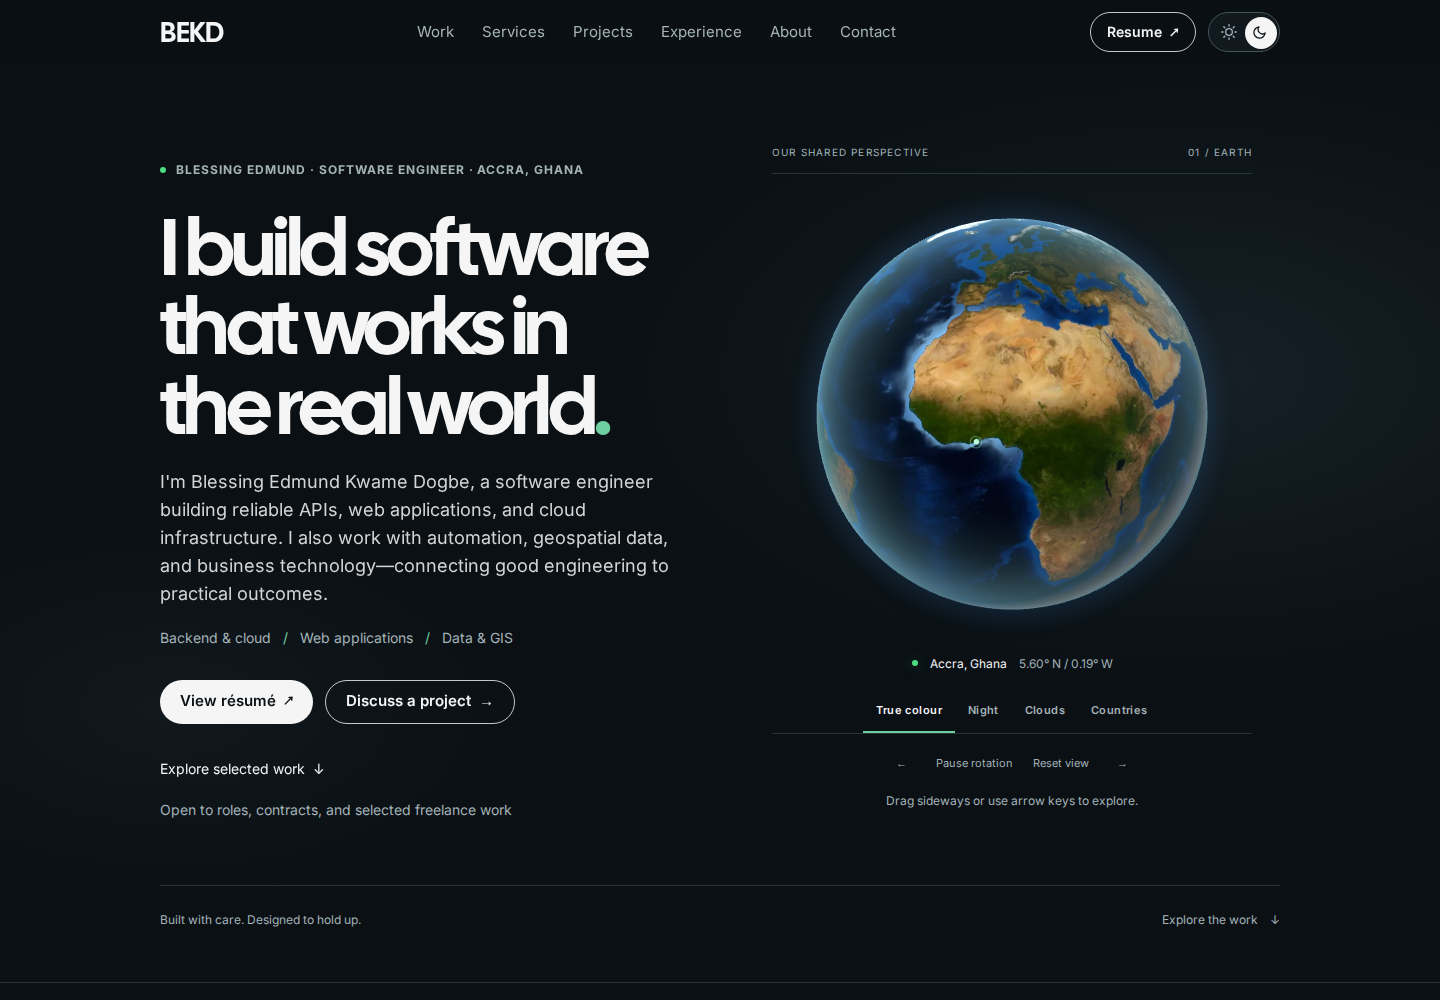
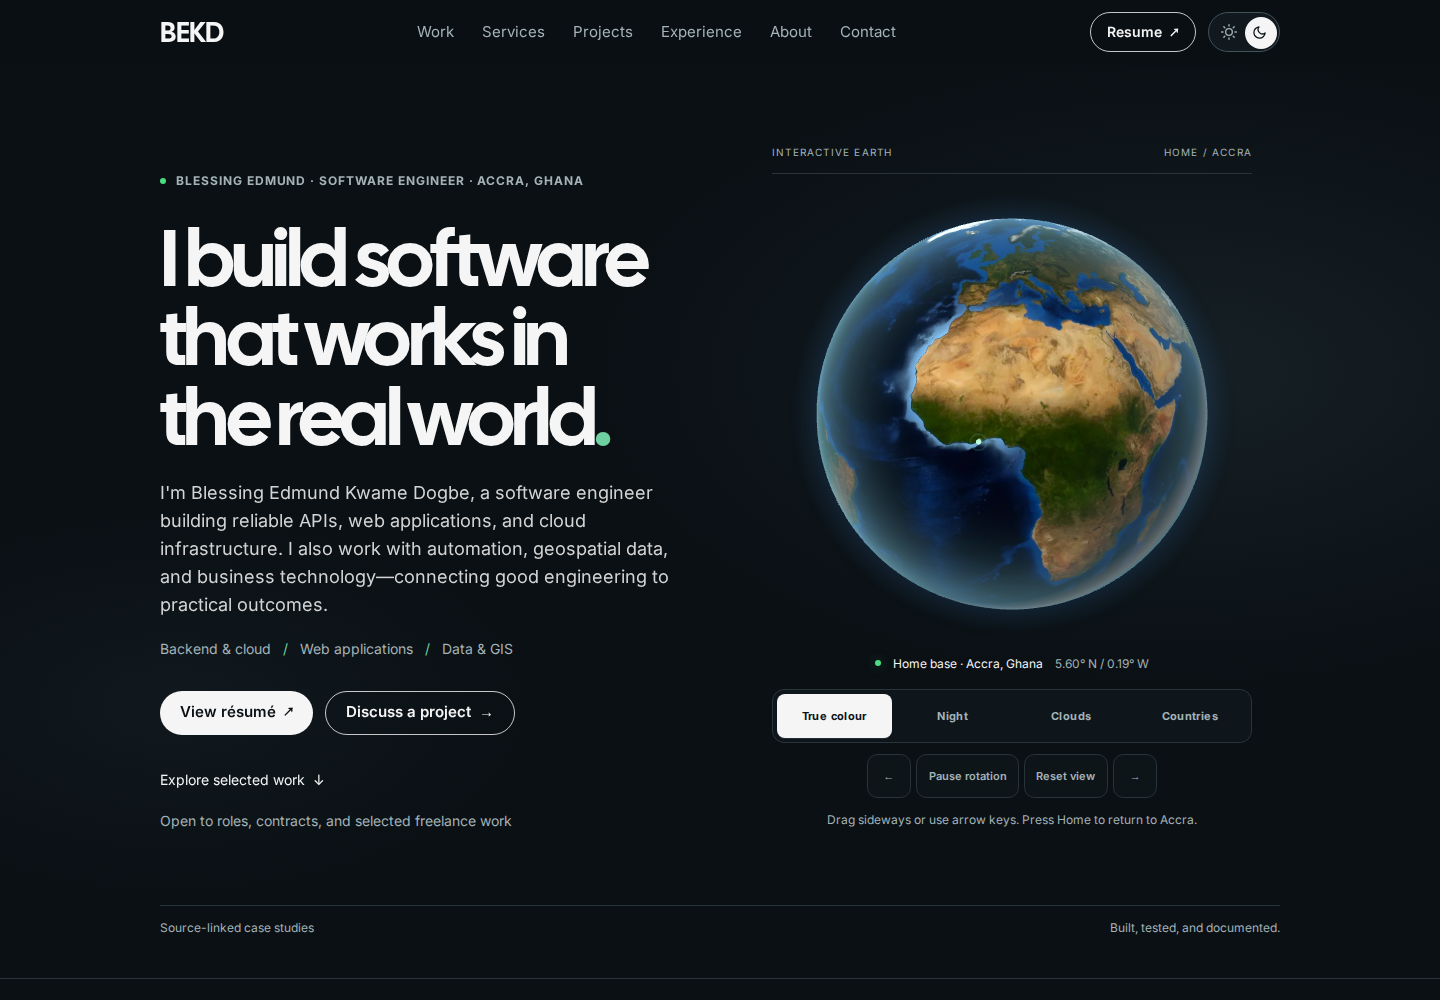
refine: polish portfolio UI and globe controls

diff --git a/src/index.css b/src/index.css
@@ -207,14 +207,17 @@
 
   /* Monochrome until hovered, then a slight tilt into colour */
   .grayscale-hover {
-    filter: grayscale(100%);
     transition: filter 500ms ease, transform 500ms ease;
   }
 
-  .grayscale-hover:hover,
-  .group:hover .grayscale-hover {
-    filter: grayscale(0%);
-    transform: rotate(3deg) scale(1.03);
+  @media (hover: hover) {
+    .grayscale-hover { filter: grayscale(100%); }
+
+    .grayscale-hover:hover,
+    .group:hover .grayscale-hover {
+      filter: grayscale(0%);
+      transform: rotate(2deg) scale(1.02);
+    }
   }
 
   /* Text sits at 20% and a solid fill sweeps across it left to right */
@@ -304,11 +307,11 @@
   .globe-canvas canvas:active { cursor: grabbing; }
   .globe-location { display: flex; align-items: center; justify-content: center; flex-wrap: wrap; gap: .5rem .75rem; font-size: .75rem; }
   .globe-location-dot { width: 6px; height: 6px; border-radius: 50%; background: rgb(var(--signal)); box-shadow: 0 0 12px rgb(var(--signal) / .35); }
-  .globe-looks { display: flex; justify-content: center; border-bottom: 1px solid rgb(var(--rule)); margin-top: 1rem; }
-  .globe-looks button { min-height: 44px; padding: .5rem .8rem; font-size: .6875rem; letter-spacing: .04em; font-weight: 600; color: rgb(var(--ink-muted)); border-bottom: 2px solid transparent; }
-  .globe-looks button[aria-pressed='true'] { border-color: rgb(var(--accent)); color: rgb(var(--ink)); }
-  .globe-controls { display: flex; justify-content: center; align-items: center; gap: .25rem; margin-top: .4rem; }
-  .globe-controls button { min-height: 44px; min-width: 44px; padding: .5rem; border-radius: .5rem; font-size: .6875rem; color: rgb(var(--ink-muted)); }
+  .globe-looks { display: grid; grid-template-columns: repeat(4, minmax(0, 1fr)); gap: .25rem; margin-top: 1rem; padding: .25rem; border: 1px solid rgb(var(--rule)); border-radius: .75rem; background: rgb(var(--paper-raised) / .72); }
+  .globe-looks button { min-height: 44px; padding: .5rem .65rem; border-radius: .5rem; font-size: .6875rem; letter-spacing: .035em; font-weight: 700; color: rgb(var(--ink-muted)); }
+  .globe-looks button[aria-pressed='true'] { color: rgb(var(--paper)); background: rgb(var(--ink)); box-shadow: 0 1px 0 rgb(var(--rule-strong) / .4); }
+  .globe-controls { display: flex; justify-content: center; align-items: center; flex-wrap: wrap; gap: .35rem; margin-top: .65rem; }
+  .globe-controls button { min-height: 44px; min-width: 44px; padding: .5rem .7rem; border: 1px solid rgb(var(--rule)); border-radius: .65rem; background: rgb(var(--paper-raised) / .55); font-size: .6875rem; font-weight: 600; color: rgb(var(--ink-muted)); }
   .globe-controls button:hover, .globe-looks button:hover { color: rgb(var(--ink)); background: rgb(var(--paper-sunk)); }
   .globe-controls button:disabled, .globe-looks button:disabled { cursor: default; opacity: .65; }
   .globe-status { min-height: 1.25rem; margin-top: .5rem; font-size: .75rem; text-align: center; color: rgb(var(--ink-muted)); }

diff --git a/src/components/RecordEntry.jsx b/src/components/RecordEntry.jsx
@@ -1,15 +1,15 @@
 import { useState } from 'react';
 
 /** One row in the experience record: logo, organisation and role, dates on the right, details below. */
-function RecordEntry({ title, organization, type, duration, location, isCurrent, description, highlights, skills, logo, logoText }) {
+function RecordEntry({ title, organization, type, duration, location, isCurrent, description, highlights, skills, logo, logoText, logoClassName }) {
   const [logoFailed, setLogoFailed] = useState(false);
 
   return (
     <li className="group py-9">
-      <div className="flex flex-wrap items-center gap-x-8 gap-y-4">
-        <div className="grayscale-hover flex h-[60px] w-[60px] shrink-0 items-center justify-center overflow-hidden rounded-xl border border-rule bg-white p-1.5">
+      <div className="flex flex-wrap items-center gap-x-6 gap-y-4">
+        <div className="grayscale-hover flex h-16 w-20 shrink-0 items-center justify-center overflow-hidden rounded-xl border border-rule bg-white p-1 sm:w-24">
           {logo && !logoFailed ? (
-            <img src={logo} alt={`${organization} logo`} width="60" height="60" loading="lazy" decoding="async" className="h-full w-full object-contain" onError={() => setLogoFailed(true)} />
+            <img src={logo} alt={`${organization} logo`} width="96" height="64" loading="lazy" decoding="async" className={`h-full w-full ${logoClassName || 'object-contain'}`} onError={() => setLogoFailed(true)} />
           ) : (
             <span aria-hidden="true" className="font-mono text-[0.6875rem] text-neutral-500">{logoText}</span>
           )}
@@ -39,7 +39,7 @@ function RecordEntry({ title, organization, type, duration, location, isCurrent,
         </div>
       </div>
 
-      <div className="min-w-0 sm:pl-[calc(60px+2rem)]">
+      <div className="min-w-0 sm:pl-[calc(6rem+1.5rem)]">
         {description && (
           <p className="mt-4 max-w-prose text-ink-soft leading-relaxed">{description}</p>
         )}

diff --git a/src/components/HeroGlobe.jsx b/src/components/HeroGlobe.jsx
@@ -43,7 +43,7 @@ const HeroGlobe = memo(function HeroGlobe() {
   return (
     <div className="globe-experience">
       <div className="globe-caption" aria-hidden="true">
-        <span>Our shared perspective</span><span>01 / Earth</span>
+        <span>Interactive Earth</span><span>Home / Accra</span>
       </div>
       <div className="hero-globe-stage relative mx-auto aspect-square w-full">
         {!ready && <GlobeFallback message={unavailable ? 'A quieter view of our world.' : 'Preparing the Earth…'} />}
@@ -51,7 +51,7 @@ const HeroGlobe = memo(function HeroGlobe() {
       </div>
       <div className="globe-location">
         <span className="globe-location-dot" aria-hidden="true" />
-        <span>Accra, Ghana</span><span className="text-ink-muted">5.60° N / 0.19° W</span>
+        <span>Home base · Accra, Ghana</span><span className="text-ink-muted">5.60° N / 0.19° W</span>
       </div>
       {unavailable ? (
         <p className="mt-4 text-center text-sm text-ink-muted" role="status">Interactive Earth is unavailable. You can still explore all my work below.</p>
@@ -72,7 +72,7 @@ const HeroGlobe = memo(function HeroGlobe() {
             <button type="button" disabled={!ready} onClick={() => apiRef.current?.reset()}>Reset view</button>
             <button type="button" disabled={!ready} onClick={() => apiRef.current?.rotate(0.2)} aria-label="Rotate Earth right">→</button>
           </div>
-          <p className="mt-2 text-center text-xs text-ink-muted">Drag sideways or use arrow keys to explore.</p>
+          <p id="globe-instructions" className="mt-3 text-center text-xs leading-relaxed text-ink-muted">Drag sideways or use arrow keys. Press Home to return to Accra.</p>
           {look === 'countries' && (
             <div className="mt-4">
               <label htmlFor="globe-country" className="sr-only">Explore a country</label>

diff --git a/src/components/Experience.jsx b/src/components/Experience.jsx
@@ -6,6 +6,9 @@ import oneHealthLogo from '../assets/images/companies/onehealthtech.png';
 import amalitechLogo from '../assets/images/companies/Amalitech.png';
 import afarinickLogo from '../assets/images/companies/afarinick_company_limited_logo.jpg';
 import graLogo from '../assets/images/companies/GRA.webp';
+import knustLogo from '../assets/images/companies/knust.jpg';
+import hubbleMindLogo from '../assets/images/companies/hubblemind.jpg';
+import leratoLogo from '../assets/images/companies/lerato.jpg';
 
 const EXPERIENCES = [
   {
@@ -53,6 +56,7 @@ const EXPERIENCES = [
     location: 'Kumasi, Ghana',
     description: 'Delivered Tier 1 and Tier 2 technical support, assisted with Active Directory administration, and documented repeatable technical procedures.',
     skills: ['IT Support', 'Active Directory', 'Troubleshooting', 'Documentation'],
+    logo: knustLogo,
     logoText: 'KNUST',
   },
   {
@@ -75,6 +79,8 @@ const EXPERIENCES = [
     duration: 'Nov 2024 – Dec 2024',
     description: 'Prepared health data and trained machine-learning classifiers as part of a data science internship project.',
     skills: ['Data Preparation', 'Machine Learning', 'Python'],
+    logo: hubbleMindLogo,
+    logoClassName: 'object-cover',
     logoText: 'HM',
   },
   {
@@ -85,6 +91,8 @@ const EXPERIENCES = [
     location: 'Greater Accra, Ghana',
     description: 'Installed and configured POS systems for retail and hospitality environments and documented troubleshooting and support procedures.',
     skills: ['POS Configuration', 'IT Support', 'Troubleshooting', 'Business Technology'],
+    logo: leratoLogo,
+    logoClassName: 'object-cover object-top',
     logoText: 'LC',
   },
   {

diff --git a/tests/portfolio.spec.js b/tests/portfolio.spec.js
@@ -96,10 +96,16 @@ test('responsive layouts, saved themes, navigation, filters, and image dialogs',
   await expect(page.getByRole('link', { name: 'Discuss a project' })).toHaveAttribute('href', /mailto:dogbeblessingkwame@gmail\.com\?subject=Project%20enquiry/);
   await expect(page.locator('#services li')).toHaveCount(5);
   await expect(page.locator('#experience')).toContainText('Data Entry, Returns Processing & IT Support Intern');
+  await expect(page.locator('#experience img[alt$=" logo"]')).toHaveCount(8);
   const graLogo = page.getByAltText('Ghana Revenue Authority (GRA) logo');
   await graLogo.scrollIntoViewIfNeeded();
   await expect(graLogo).toBeVisible();
   await expect.poll(() => graLogo.evaluate((image) => image.complete && image.naturalWidth > 0)).toBe(true);
+  for (const alt of ['KNUST logo', 'HubbleMind logo', 'Lerato Consult logo']) {
+    const logo = page.getByAltText(alt);
+    await logo.scrollIntoViewIfNeeded();
+    await expect.poll(() => logo.evaluate((image) => image.complete && image.naturalWidth > 0)).toBe(true);
+  }
   for (const width of [320, 390, 768, 1024, 1440, 1920]) {
     await page.setViewportSize({ width, height: 900 });
     expect(await page.evaluate(() => document.documentElement.scrollWidth <= innerWidth)).toBe(true);

diff --git a/src/components/Services.jsx b/src/components/Services.jsx
@@ -55,9 +55,12 @@ const Services = memo(function Services() {
       title="Engineering support from build to operation"
       lede="Practical services for teams that need software delivered clearly, deployed reliably, and supported after launch."
     >
-      <ol className="grid gap-px overflow-hidden rounded-2xl border border-rule bg-rule md:grid-cols-2 xl:grid-cols-5">
+      <ol className="grid gap-px overflow-hidden rounded-2xl border border-rule bg-rule md:grid-cols-2 xl:grid-cols-12">
         {SERVICES.map((service, index) => (
-          <li key={service.title} className="flex min-h-full flex-col bg-paper-raised p-6 sm:p-7">
+          <li
+            key={service.title}
+            className={`flex min-h-full flex-col bg-paper-raised p-6 sm:p-7 ${index === SERVICES.length - 1 ? 'md:col-span-2 xl:col-span-6' : index >= 3 ? 'xl:col-span-6' : 'xl:col-span-4'}`}
+          >
             <p className="font-mono text-meta text-accent-strong">{String(index + 1).padStart(2, '0')}</p>
             <h3 className="mt-4 text-xl text-ink">{service.title}</h3>
             <p className="mt-3 text-[0.9375rem] leading-relaxed text-ink-muted">{service.body}</p>

diff --git a/src/components/Home.jsx b/src/components/Home.jsx
@@ -42,8 +42,8 @@ const Home = memo(function Home() {
           <GlobeExperience />
         </div>
         <div className="hero-footnote">
-          <p>Built with care. Designed to hold up.</p>
-          <a href="#work" className="inline-flex min-h-[44px] items-center gap-3">Explore the work <span aria-hidden="true">↓</span></a>
+          <p>Source-linked case studies</p>
+          <p>Built, tested, and documented.</p>
         </div>
       </div>
     </section>

diff --git a/src/components/globe/createGlobeScene.js b/src/components/globe/createGlobeScene.js
@@ -23,6 +23,7 @@ export function createGlobeScene(container, { onStatus, onCountries, onSelection
   renderer.setClearColor(0x000000, 0);
   const canvas = renderer.domElement;
   canvas.setAttribute('aria-label', 'Earth. Arrow keys rotate; Home returns to Accra.');
+  canvas.setAttribute('aria-describedby', 'globe-instructions');
   canvas.setAttribute('role', 'img');
   canvas.tabIndex = 0;
   container.appendChild(canvas);

diff --git a/docs/REFINEMENT-2026-11-10.md b/docs/REFINEMENT-2026-11-10.md
@@ -2,7 +2,7 @@
 
 Branch: `codex/portfolio-professional-positioning`
 
-Commit: `feat: refine portfolio positioning and experience`
+Initial refinement commit: `310dafe feat: refine portfolio positioning and experience`
 
 The pre-implementation audit is recorded in [`AUDIT-2026-11-09.md`](./AUDIT-2026-11-09.md).
 
@@ -19,6 +19,15 @@ The pre-implementation audit is recorded in [`AUDIT-2026-11-09.md`](./AUDIT-2026
 - Preserved the established themes, section system, project case studies, responsive behavior, animations, navigation, static prerendering, and interactive Earth implementation.
 - Added automated assertions for the hero actions, five services, GRA content and decoded production image, and no-JavaScript output.
 
+## Final UI/UX and globe polish
+
+- Integrated the user-supplied KNUST, HubbleMind, and Lerato Consult logos through the Vite asset pipeline and added decoded-image regression checks for each one.
+- Widened the experience logo frame so horizontal wordmarks remain legible, while preserving the shared fallback treatment and showing colour by default on touch-only devices.
+- Rebalanced the five service cards from a compressed single row into a 3+2 desktop composition with more readable line lengths and stronger visual hierarchy.
+- Replaced the duplicate lower hero link with concise proof points, leaving one unambiguous path to the selected work.
+- Restyled the globe appearance modes as a clear segmented control, strengthened the rotation/reset affordances, and added an explicit Home-key instruction linked to the canvas accessibility description.
+- Clarified the globe caption and Accra home-base label without changing the existing rendering, lazy-loading, failure recovery, or reduced-motion behaviour.
+
 ## Files
 
 ### Added
@@ -29,6 +38,9 @@ The pre-implementation audit is recorded in [`AUDIT-2026-11-09.md`](./AUDIT-2026
 - `docs/screenshots/portfolio-mobile.png`
 - `src/components/Services.jsx`
 - `src/assets/images/companies/GRA.webp` (user-supplied asset integrated without replacement)
+- `src/assets/images/companies/hubblemind.jpg` (user-supplied asset)
+- `src/assets/images/companies/knust.jpg` (user-supplied asset)
+- `src/assets/images/companies/lerato.jpg` (user-supplied asset)
 
 ### Modified
 
@@ -41,10 +53,12 @@ The pre-implementation audit is recorded in [`AUDIT-2026-11-09.md`](./AUDIT-2026
 - `src/components/About.jsx`
 - `src/components/Contact.jsx`
 - `src/components/Experience.jsx`
+- `src/components/HeroGlobe.jsx`
 - `src/components/Home.jsx`
 - `src/components/RecordEntry.jsx`
 - `src/components/Skills.jsx`
 - `src/components/StructuredData.jsx`
+- `src/components/globe/createGlobeScene.js`
 - `src/config/constants.js`
 - `src/data/projects.js`
 - `src/index.css`
@@ -57,7 +71,8 @@ The pre-implementation audit is recorded in [`AUDIT-2026-11-09.md`](./AUDIT-2026
 - `npm run lint`: passed with no errors or warnings.
 - `npm run build`: passed; `/` and `/projects` prerendered successfully.
 - Production asset output includes the hashed GRA WebP (`GRA-BMnh2PQO.webp`, 7.33 KB in this build).
-- `npx playwright test`: **11/11 passed** in the final run.
+- `npx playwright test`: **11/11 passed** in the final run (3.2 minutes).
+- Experience regression coverage confirms all eight employer images are present and that the GRA, KNUST, HubbleMind, and Lerato Consult assets decode successfully.
 - Automated axe checks: no violations in the scanned WCAG A/AA rules on both routes, both themes, or the open mobile menu.
 - Responsive automation: no horizontal overflow at 320, 390, 768, 1024, 1440, or 1920 px.
 - Covered keyboard Earth controls, reduced motion, mobile navigation, project filters, dialogs, WebGL/texture/context failures, country-data retry, offscreen rendering, route cleanup, and no-JavaScript content and metadata.
